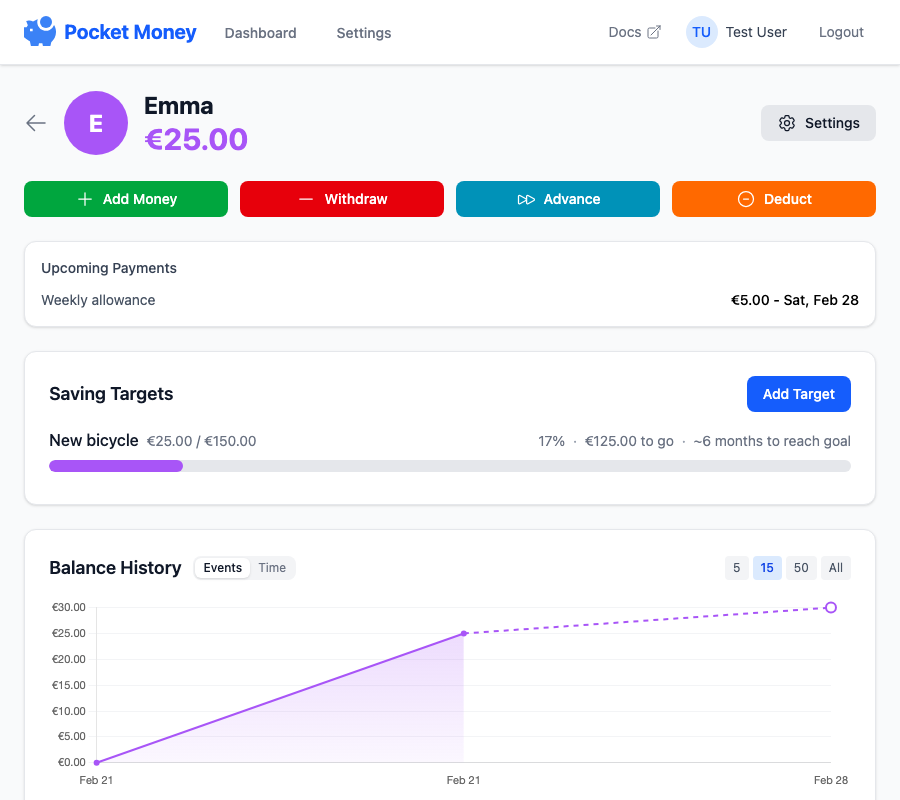
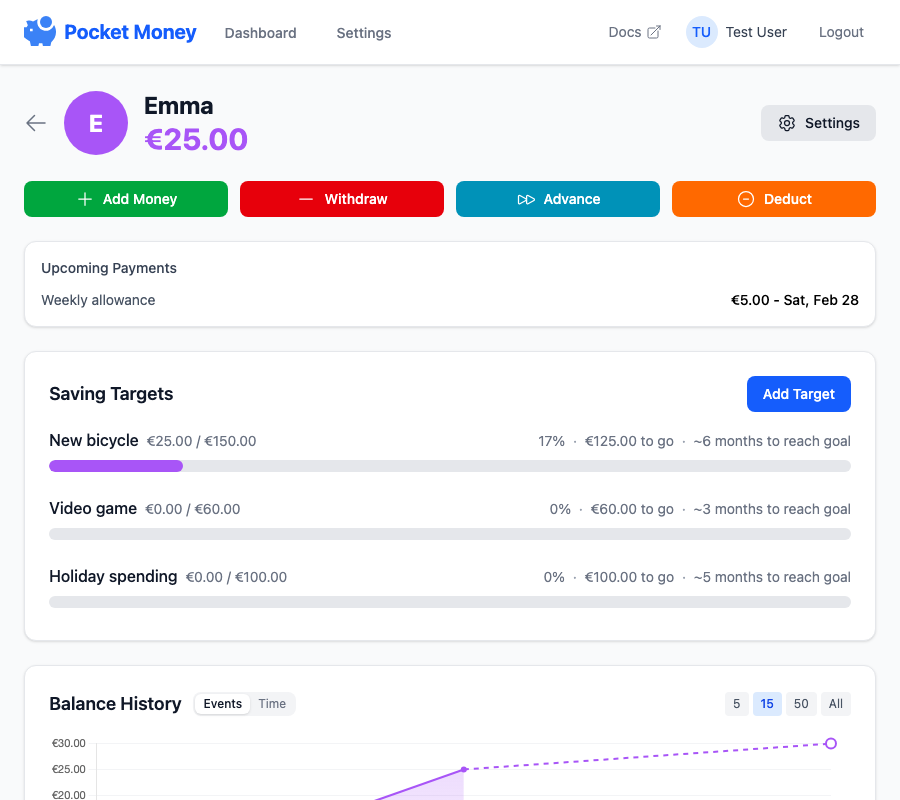
Update docs and screenshots for multi-segment donut chart
- Add 'Dashboard Progress Ring' section to saving-targets guide
  explaining the segmented ring behaviour (filled/empty/gaps)
- Update screenshot script to add multiple saving targets (bicycle,
  video game, holiday spending) so dashboard.png shows the ring
- Re-capture dashboard.png after targets are set up
- Regenerate all 14 documentation screenshots

diff --git a/scripts/capture-screenshots.ts b/scripts/capture-screenshots.ts
@@ -128,11 +128,25 @@ async function main() {
 		await page.waitForLoadState('networkidle');
 		await screenshot(page, 'child-settings', true);
 
-		// Add saving target
+		// Add saving targets (multiple, to show segmented progress ring on dashboard)
 		await page.click('button:has-text("Add Target")');
 		await page.waitForSelector('text=Add Saving Target >> visible=true');
 		await page.fill('input#targetName', 'New bicycle');
 		await page.fill('input#targetAmount', '150');
+		await page.locator('.fixed.inset-0.z-50 form button[type="submit"]').click({ force: true });
+		await page.waitForTimeout(500);
+
+		await page.click('button:has-text("Add Target")');
+		await page.waitForSelector('text=Add Saving Target >> visible=true');
+		await page.fill('input#targetName', 'Video game');
+		await page.fill('input#targetAmount', '60');
+		await page.locator('.fixed.inset-0.z-50 form button[type="submit"]').click({ force: true });
+		await page.waitForTimeout(500);
+
+		await page.click('button:has-text("Add Target")');
+		await page.waitForSelector('text=Add Saving Target >> visible=true');
+		await page.fill('input#targetName', 'Holiday spending');
+		await page.fill('input#targetAmount', '100');
 		await page.locator('.fixed.inset-0.z-50 form button[type="submit"]').click({ force: true });
 		await page.waitForTimeout(500);
 
@@ -159,6 +173,14 @@ async function main() {
 		// Wait for chart animation to complete
 		await page.waitForTimeout(1500);
 		await screenshot(page, 'child-profile-featured');
+
+		// Re-capture dashboard now that child has balance and multiple saving targets,
+		// so the segmented progress ring is visible
+		await page.click('a:has-text("Dashboard")');
+		await page.waitForURL(`${BASE_URL}/`);
+		await page.waitForLoadState('networkidle');
+		await page.waitForTimeout(1000);
+		await screenshot(page, 'dashboard');
 
 		// ============================================
 		// App Settings Screenshots

diff --git a/docs/guide/saving-targets.md b/docs/guide/saving-targets.md
@@ -4,6 +4,16 @@ Saving targets help children work toward financial goals with visual progress tr
 
 ![Saving Targets](../assets/screenshots/child-settings-configured.png)
 
+## Dashboard Progress Ring
+
+Each child card on the dashboard shows a segmented progress ring when saving targets are set. Each segment of the ring represents one target, sized proportionally to its amount. Progress fills from the first target outward:
+
+- **Filled segments** (child colour) — fully or partially reached targets
+- **Empty segments** (grey) — targets not yet started
+- **Gaps** between segments make it clear where one target ends and the next begins
+
+![Dashboard with saving targets](../assets/screenshots/dashboard.png)
+
 ## Creating a Target
 
 You can add a target from two places:
